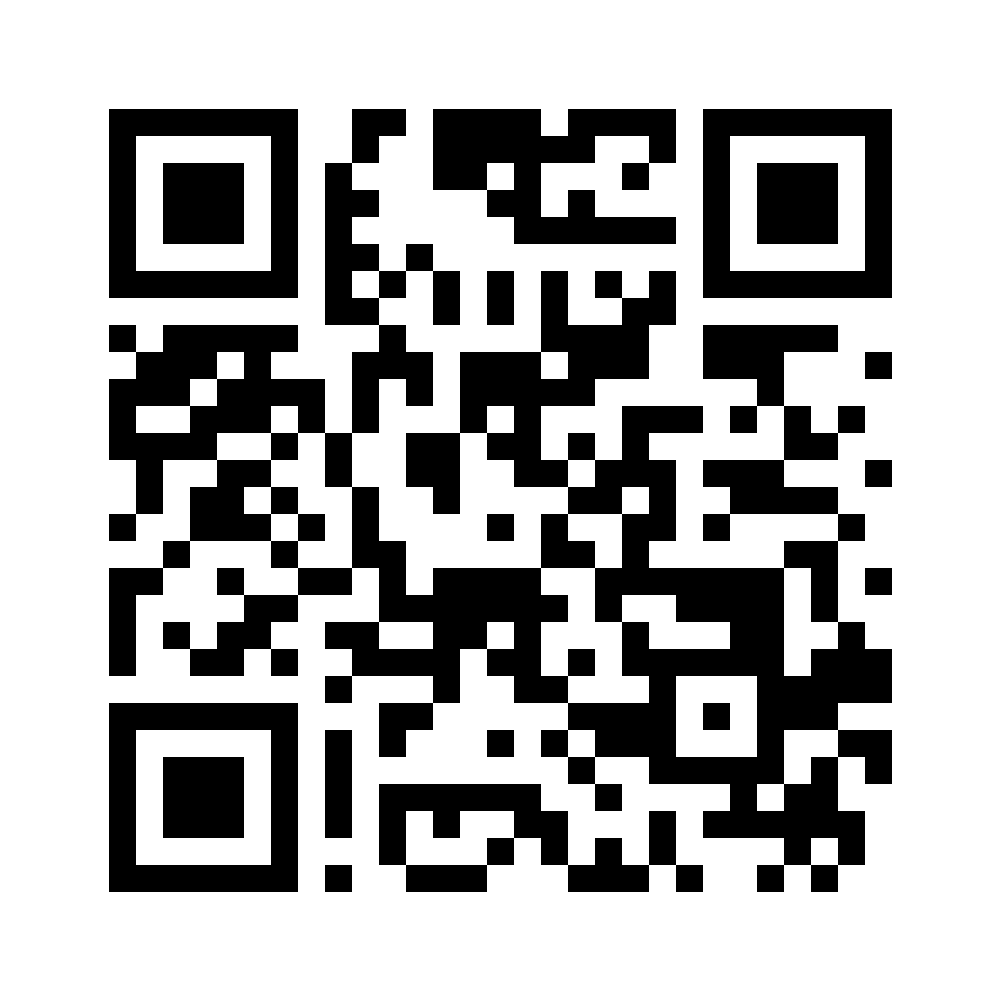
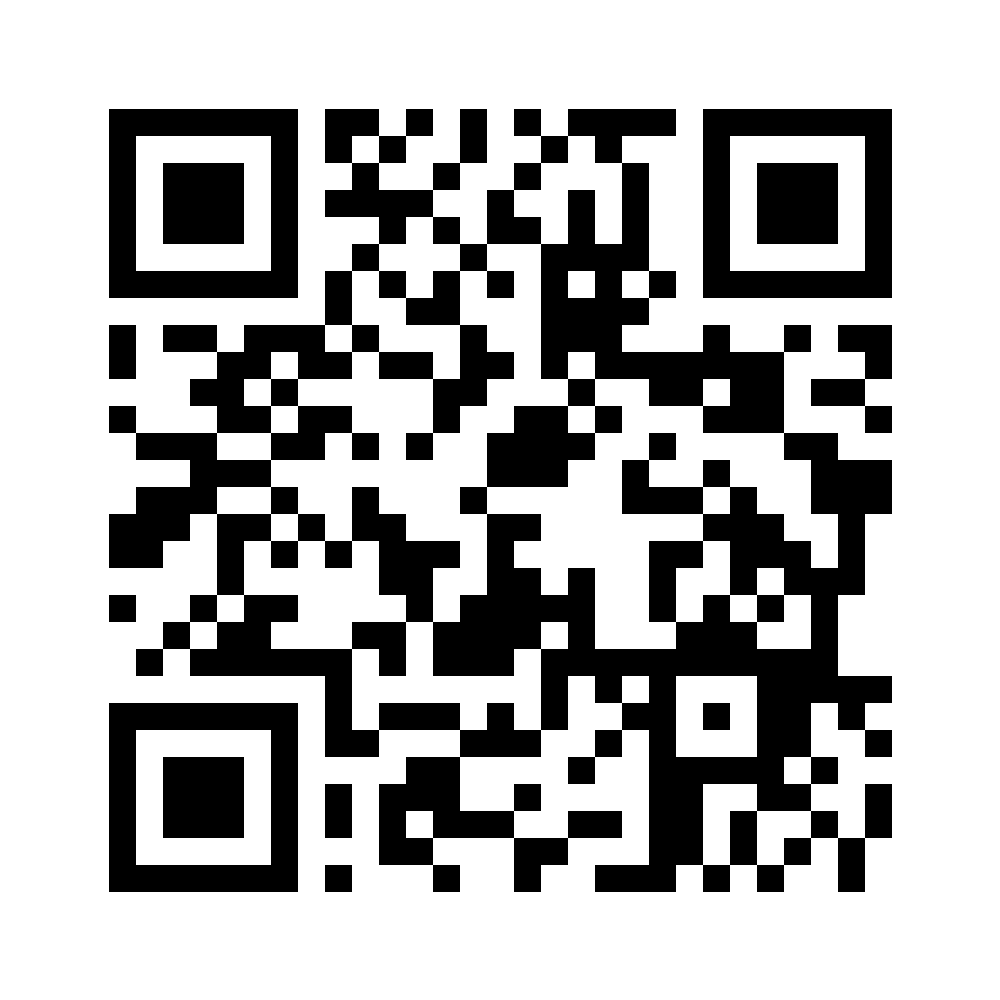
Make opendoorlearningai.com the primary address
Canonical URLs, sitemap, structured data, llms.txt, robots.txt, the contact
card and its QR code now use opendoorlearningai.com. The site worker moves to
that custom domain and accepts form posts from both addresses.

redirect-worker/ serves builtwithjon.com and www.opendoorlearningai.com with
a path-preserving 301 and passes /api/* through to the site worker, so a page
opened before the move can still send its form.

Email addresses stay on builtwithjon.com until the new domain receives mail.

Changed region(s): [[0.093, 0.093, 0.899, 0.899], [0.651, 0.124, 0.682, 0.186], [0.186, 0.589, 0.217, 0.62]]

diff --git a/src/worker.js b/src/worker.js
@@ -35,7 +35,7 @@ const EVENT_PATH = "/api/event";
 const MAX_EVENT_BODY_BYTES = 2048;
 const TURNSTILE_VERIFY_URL = "https://challenges.cloudflare.com/turnstile/v0/siteverify";
 const TURNSTILE_ACTION = "lead-form";
-const AGENT_DOWNLOAD_URL = "https://builtwithjon.com/ai-assistant/cowork/personal-assistant-cowork-plugin.zip";
+const AGENT_DOWNLOAD_URL = "https://opendoorlearningai.com/ai-assistant/cowork/personal-assistant-cowork-plugin.zip";
 const AGENT_SHORT_PATHS = new Set(["/agent", "/agent/"]);
 const PERMANENT_REDIRECTS = new Map([
   // Open Door Learning rebrand, October 6, 2026. Every page outside the new site
@@ -211,6 +211,8 @@ const INQUIRY_LABELS = {
   "workshop-host": "Workshop inquiry",
   contact: "Contact inquiry",
 };
+// builtwithjon.com was the primary address until the October 2026 move.
+const FORMER_HOSTNAMES = ["builtwithjon.com"];
 const HOST_INQUIRY_TYPES = new Set(["host", "workshop-host"]);
 const INTEREST_INQUIRY_TYPES = new Set(["workshop", "workshop-host"]);
 
@@ -1077,14 +1079,16 @@ async function validateTurnstile(request, form, env) {
       return false;
     }
     const result = await response.json();
-    const expectedHostname = new URL(env.SITE_ORIGIN || "https://builtwithjon.com").hostname;
+    // The former domain stays valid: a page open there before the move can
+    // still submit through the redirect worker's /api pass-through.
+    const expectedHostnames = new Set([new URL(siteOrigin(env)).hostname, ...FORMER_HOSTNAMES]);
     const valid = result.success === true
       && result.action === TURNSTILE_ACTION
-      && result.hostname === expectedHostname;
+      && expectedHostnames.has(result.hostname);
     if (!valid) {
       logOperational("turnstile_rejected", {
         actionMatches: result.action === TURNSTILE_ACTION,
-        hostnameMatches: result.hostname === expectedHostname,
+        hostnameMatches: expectedHostnames.has(result.hostname),
         errorCount: Array.isArray(result["error-codes"]) ? result["error-codes"].length : 0,
       });
     }
@@ -1400,7 +1404,7 @@ function renderHtmlEmail(model) {
         <td style="padding:18px 28px 24px;border-top:1px solid #E5D7C3;">
           <p style="margin:0 0 8px;font:400 15px/1.5 -apple-system,BlinkMacSystemFont,'Segoe UI',sans-serif;color:#1F1713;">Either way, you keep the report. Reply to this email if you want a second pair of eyes on any of it.</p>
           <p style="margin:0 0 16px;font:400 15px/1.5 -apple-system,BlinkMacSystemFont,'Segoe UI',sans-serif;color:#1F1713;">Jonathan<br>Open Door Learning</p>
-          <p style="margin:0;font:400 12px/1.45 -apple-system,BlinkMacSystemFont,'Segoe UI',sans-serif;color:#5E5047;">You got this because you ran the scorecard at builtwithjon.com. <a href="${escapeAttribute(siteOrigin(model))}/privacy" style="color:#1D4ED8;">Privacy policy</a> · jonathan@builtwithjon.com</p>
+          <p style="margin:0;font:400 12px/1.45 -apple-system,BlinkMacSystemFont,'Segoe UI',sans-serif;color:#5E5047;">You got this because you ran the scorecard at opendoorlearningai.com. <a href="${escapeAttribute(siteOrigin(model))}/privacy" style="color:#1D4ED8;">Privacy policy</a> · jonathan@builtwithjon.com</p>
         </td>
       </tr>
     </table>
@@ -1518,7 +1522,7 @@ function originAllowed(request) {
   if (!origin) return false;
   try {
     const url = new URL(origin);
-    if (["https://builtwithjon.com", "https://www.builtwithjon.com",
+    if (["https://opendoorlearningai.com", "https://builtwithjon.com", "https://www.builtwithjon.com",
       "https://jonathanmalkin-site.jonathan-d-malkin.workers.dev"].includes(url.origin)) return true;
     return url.protocol === "http:"
       && ["127.0.0.1", "localhost"].includes(url.hostname)
@@ -1560,5 +1564,5 @@ function lower(value) {
 }
 
 function siteOrigin(env) {
-  return env.SITE_ORIGIN || "https://builtwithjon.com";
+  return env.SITE_ORIGIN || "https://opendoorlearningai.com";
 }

diff --git a/redirect-worker/worker.js b/redirect-worker/worker.js
@@ -1,0 +1,23 @@
+// Serves the former addresses (builtwithjon.com and the www form of the new
+// domain). Every page request gets a permanent redirect to the same path on
+// opendoorlearningai.com, so printed QR codes, slides and old links keep
+// working. API posts are passed straight to the site worker instead, because
+// a redirected POST from a page opened before the move would be lost.
+
+const PRIMARY_ORIGIN = "https://opendoorlearningai.com";
+
+export default {
+  async fetch(request, env) {
+    const url = new URL(request.url);
+    if (url.pathname.startsWith("/api/")) return env.SITE.fetch(request);
+    return new Response(null, {
+      status: 301,
+      headers: {
+        Location: `${PRIMARY_ORIGIN}${url.pathname}${url.search}`,
+        "Cache-Control": "public, max-age=3600",
+        "X-Content-Type-Options": "nosniff",
+        "Strict-Transport-Security": "max-age=31536000",
+      },
+    });
+  },
+};

diff --git a/scripts/test-contact-qr.swift b/scripts/test-contact-qr.swift
@@ -10,7 +10,7 @@ for file in CommandLine.arguments.dropFirst() {
     request.symbologies = [.qr]
     try VNImageRequestHandler(url: URL(fileURLWithPath: file)).perform([request])
     guard let results = request.results, results.count == 1,
-          results[0].payloadStringValue == "https://builtwithjon.com/card/" else {
+          results[0].payloadStringValue == "https://opendoorlearningai.com/card/" else {
         FileHandle.standardError.write(Data("QR validation failed: \(file)\n".utf8))
         exit(1)
     }

diff --git a/src/data/scan-origins.ts b/src/data/scan-origins.ts
@@ -13,12 +13,12 @@ export interface ScanOrigin {
 
 export const CARD_ORIGIN: ScanOrigin = {
   label: 'business card',
-  subject: 'Business card scan: builtwithjon.com/card',
+  subject: 'Business card scan: opendoorlearningai.com/card',
   inquiryType: 'scan:card',
 };
 
 export const MEETUP_ORIGIN: ScanOrigin = {
   label: 'Claude Meetup',
-  subject: 'Claude Meetup scan: builtwithjon.com/claude-meetup',
+  subject: 'Claude Meetup scan: opendoorlearningai.com/claude-meetup',
   inquiryType: 'scan:meetup',
 };

diff --git a/src/data/odl.ts b/src/data/odl.ts
@@ -13,7 +13,7 @@ export const SITE = {
   titleLower: 'AI educator and builder',
   email: 'jonathan@builtwithjon.com',
   city: 'Austin, Texas',
-  url: 'https://builtwithjon.com',
+  url: 'https://opendoorlearningai.com',
   // Word for word from Identity.md.
   positioning:
     'I work with owners and executives who are using AI and want to make it more useful in their business. I teach them and their teams to solve real business problems with AI, and I build solutions when needed.',

diff --git a/src/data/contact-card.js b/src/data/contact-card.js
@@ -1,7 +1,7 @@
 // Shared by the page, downloadable vCard and QR generator.
 export const CONTACT = {
   name: 'Jonathan Malkin', phone: '+15123874308', displayPhone: '512-387-4308',
-  email: 'jonathan@builtwithjon.com', website: 'https://builtwithjon.com',
+  email: 'jonathan@builtwithjon.com', website: 'https://opendoorlearningai.com',
   linkedin: 'https://www.linkedin.com/in/jonathanmalkin',
 };
 // The visitor edits the brackets before sending. A scan never sends an SMS.

diff --git a/src/lib/schema.js b/src/lib/schema.js
@@ -6,7 +6,7 @@
 // to builders; page-specific content (offers, descriptions, FAQ copy) is
 // still supplied by the calling page.
 
-export const SITE_URL = 'https://builtwithjon.com';
+export const SITE_URL = 'https://opendoorlearningai.com';
 export const PERSON_NAME = 'Jonathan Malkin';
 // Decided 2026-10-05 with the Open Door Learning revamp (PRODUCT.md). "AI
 // consultant", "Knowledge Systems Builder", "Operating Partner" and

diff --git a/src/content/articles/obsidian-vault-ai-memory.md b/src/content/articles/obsidian-vault-ai-memory.md
@@ -12,7 +12,7 @@ Most people do the same three things. They collect their markdown into one folde
 
 The gap between those two things is six deliberate setup steps. Five of them are the kind of thing a careful PKM person already half-does: a real home, a real folder structure, wikilinks, structured notes. The sixth is the one almost everyone skips, and it is the one that actually matters. You have to stand up an MCP server so an AI agent can query the vault directly, without you copying and pasting note contents into a chat window.
 
-I built this alongside a larger memory project (three AI surfaces sharing one substrate, documented in full at [builtwithjon.com/articles/memory-systems-history](/articles/memory-systems-history/)). This piece is the vault walkthrough pulled out and expanded, with the real config, the real summarizer code, and the real eval numbers, including a measurement bug I had to confess. The receipts are at the bottom.
+I built this alongside a larger memory project (three AI surfaces sharing one substrate, documented in full at [opendoorlearningai.com/articles/memory-systems-history](/articles/memory-systems-history/)). This piece is the vault walkthrough pulled out and expanded, with the real config, the real summarizer code, and the real eval numbers, including a measurement bug I had to confess. The receipts are at the bottom.
 
 ---
 
@@ -297,7 +297,7 @@ A notes app stops at step 1. Some careful PKM setups reach step 3. Almost nobody
 
 You do not need a vector database, an embeddings pipeline, or a Docker stack to make a markdown vault readable by an AI. You need one place, a real structure, wikilinks, deterministic notes, a filesystem MCP server, and an eval. Six steps. The fifth is the one to stop skipping.
 
-The full memory-systems story, including the engines I ran alongside this vault, the ones I tore down, and the head-to-head numbers, lives in the flagship piece at [builtwithjon.com/articles/memory-systems-history](/articles/memory-systems-history/).
+The full memory-systems story, including the engines I ran alongside this vault, the ones I tore down, and the head-to-head numbers, lives in the flagship piece at [opendoorlearningai.com/articles/memory-systems-history](/articles/memory-systems-history/).
 
 ---
 

diff --git a/CLAUDE.md b/CLAUDE.md
@@ -6,8 +6,8 @@ Personal site for Jonathan Malkin. Portfolio, articles, Jules showcase.
 
 - **Framework:** Astro v6 (static output)
 - **Hosting:** Cloudflare Workers project `jonathanmalkin-site`. Push to `main`, then deploy with Wrangler.
-- **Domains:** builtwithjon.com (primary), jonathanmalkin.com (301 redirect)
-- **Email:** jonathan@builtwithjon.com, jules@builtwithjon.com (Cloudflare Email Routing → Gmail)
+- **Domains:** opendoorlearningai.com (primary since October 2026). builtwithjon.com redirects to it through the worker in `redirect-worker/`, which also passes `/api/*` through to the site worker. jonathanmalkin.com and builtwithjohn.com redirect by zone rules.
+- **Email:** jonathan@builtwithjon.com on Google Workspace. Site mail is sent through Sender from that address.
 - **Repo:** github.com/jonathanmalkin/builtwithjon
 - **Content:** Markdown with frontmatter in `src/content/articles/`
 - **Styling:** Hand-written CSS, system font stack, dark mode via prefers-color-scheme
